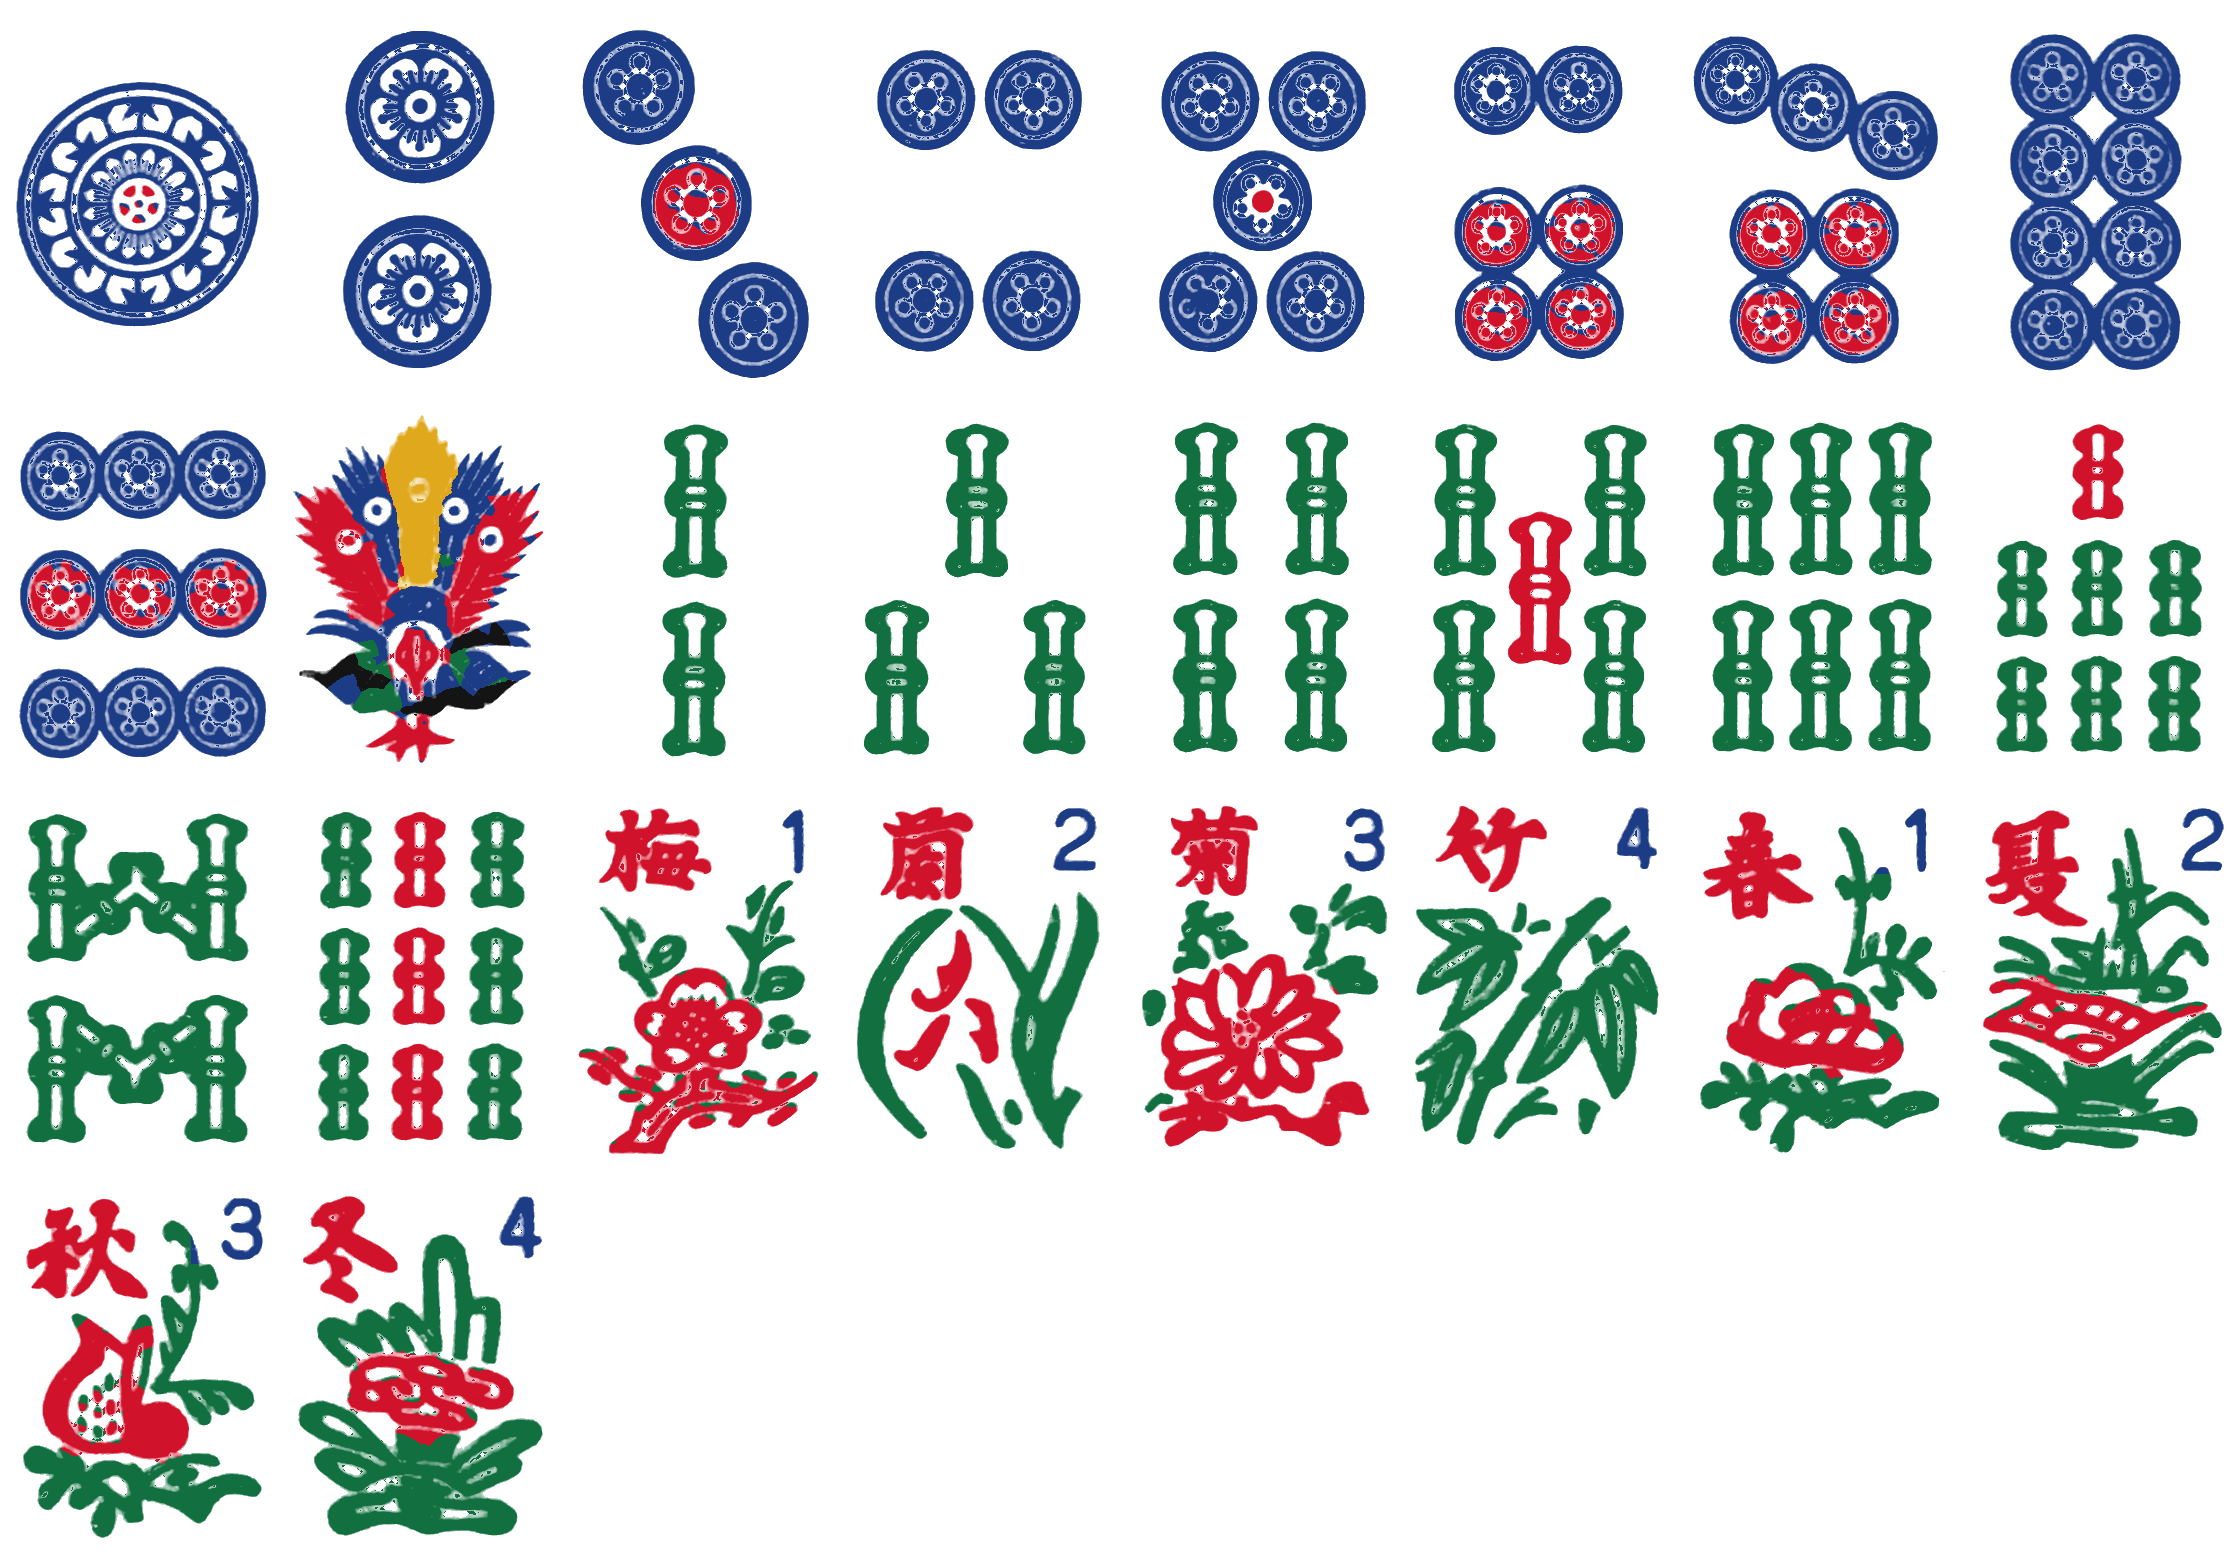
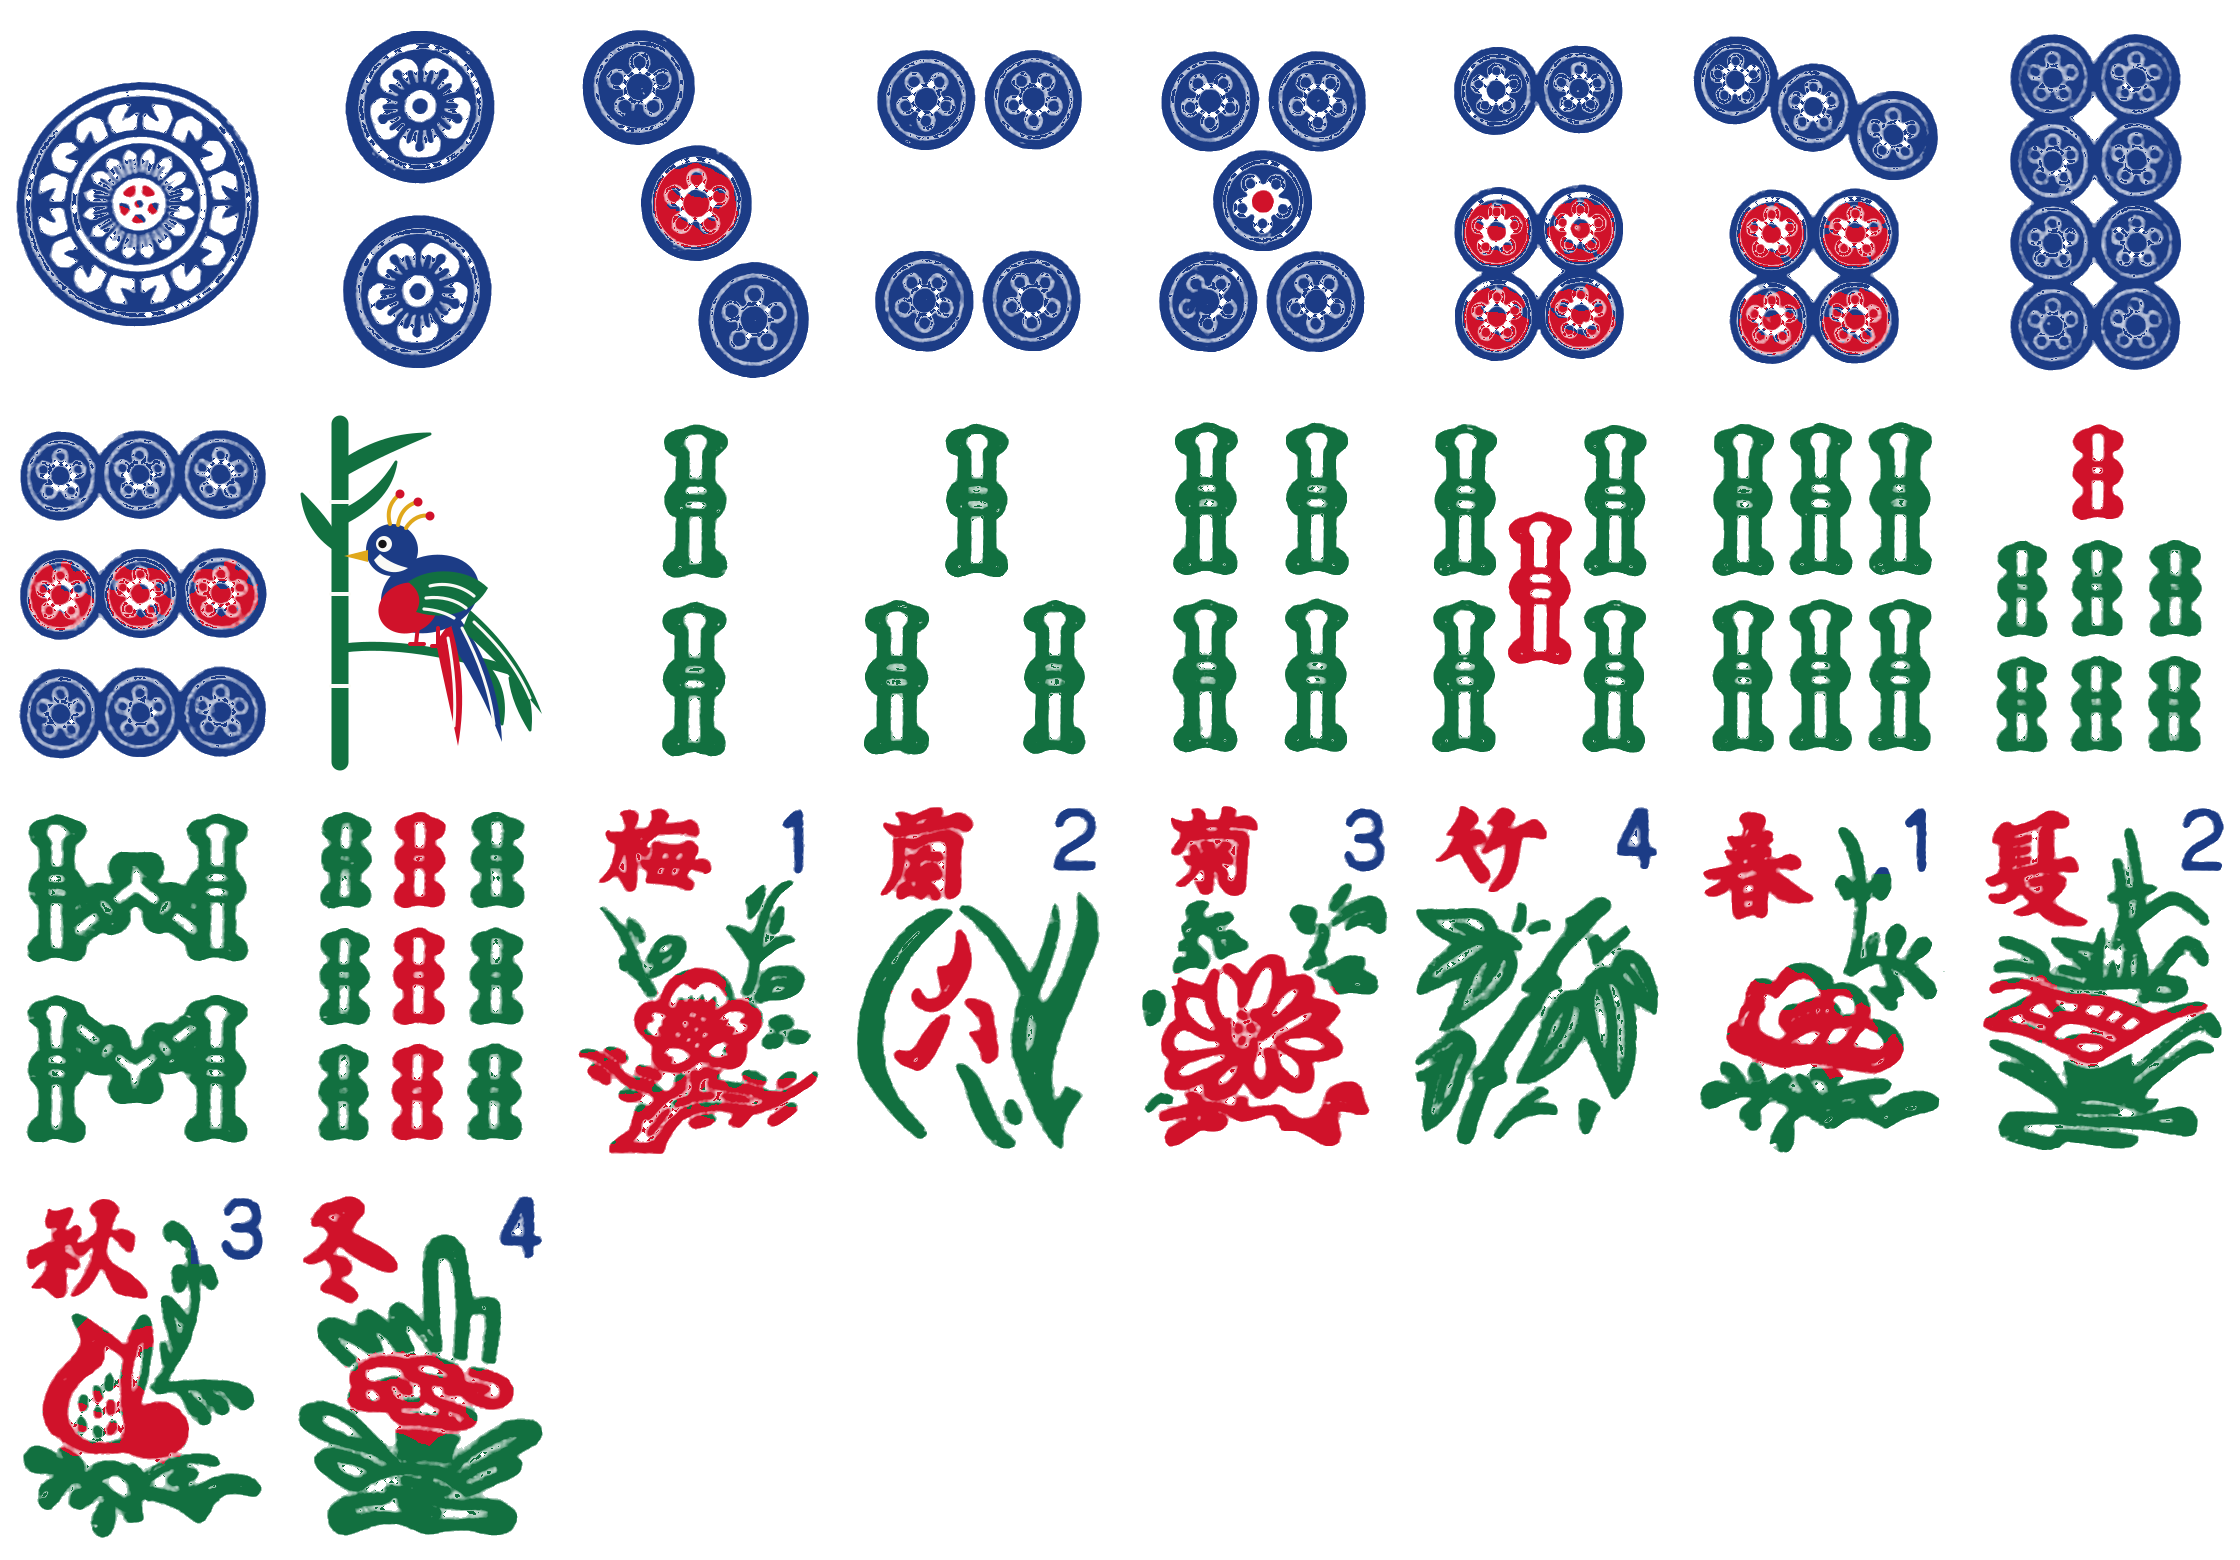
上海・麻雀：一索を独自の図案（竹にとまる雀）に (#2113)
Claude-Session: https://claude.ai/code/session_01EiWRAVZja6zGai8iStWuh2

Changed region(s): [[0.125, 0.2769, 0.25, 0.4923]]

diff --git a/atlas/lazy.js b/atlas/lazy.js
@@ -5,7 +5,7 @@
      AtlasLazy.has3D(id) / hasPlay(id) / hasRules(id) — known before loading; AtlasLazy.loaded(id) */
 (function () {
 'use strict';
-const G = {"reversi": ["games/reversi.js?v=53", "rules/reversi.js?v=14"], "shogi": ["models/shogi.js?v=101", "games/shogi-play.js?v=42", "games/shogi.js?v=16", "rules/shogi.js?v=21"], "chess": ["models/chess.js?v=16", "games/chess.js?v=18", "rules/chess.js?v=7"], "backgammon": ["models/backgammon.js?v=121", "games/backgammon.js?v=23", "rules/backgammon.js?v=11"], "gomoku": ["models/goban.js?v=15", "games/gomoku.js?v=15", "rules/gomoku.js?v=9"], "go": ["models/goban.js?v=15", "games/go.js?v=9", "rules/go.js?v=7"], "hex": ["models/goban.js?v=15", "models/hex.js?v=2", "games/hex.js?v=6", "rules/hex.js?v=6"], "tafl": ["games/tafl.js?v=15", "rules/tafl.js?v=7"], "xiangqi": ["models/xiangqi.js?v=4", "games/xiangqi.js?v=14", "rules/xiangqi.js?v=6"], "janggi": ["models/xiangqi.js?v=4", "models/janggi.js?v=3", "games/janggi.js?v=6", "rules/janggi.js?v=2"], "checkers": ["models/checkers.js?v=17", "games/checkers.js?v=8", "rules/checkers.js?v=4"], "ugolki": ["models/checkers.js?v=17", "models/ugolki.js?v=4", "games/ugolki.js?v=11", "rules/ugolki.js?v=8"], "morris": ["models/morris.js?v=7", "games/morris-pieces.js?v=2", "games/morris.js?v=7", "rules/morris.js?v=5"], "connect4": ["models/connect4.js?v=5", "games/connect4-tiles.js?v=1", "games/connect4.js?v=5", "rules/connect4.js?v=3"], "mancala": ["models/mancala.js?v=5", "games/mancala.js?v=10", "rules/mancala.js?v=4"], "dots": ["models/dots.js?v=4", "games/dots.js?v=9", "rules/dots.js?v=3"], "ur": ["models/ur-dice.js?v=2", "models/ur.js?v=5", "games/ur-kit.js?v=15", "games/ur.js?v=11", "rules/ur.js?v=16"], "fanorona": ["models/fanorona.js?v=4", "games/fanorona.js?v=6", "rules/fanorona.js?v=8"], "konane": ["models/konane.js?v=7", "games/konane.js?v=13", "rules/konane.js?v=5"], "amazons": ["models/amazons.js?v=7", "games/amazons.js?v=10", "rules/amazons.js?v=5"], "senet": ["models/ur-dice.js?v=2", "models/senet.js?v=10", "games/senet-kit.js?v=5", "games/senet.js?v=16", "rules/senet.js?v=8"], "agon": ["models/agon.js?v=4", "games/agon.js?v=12", "rules/agon.js?v=5"], "alquerque": ["models/alquerque.js?v=3", "rules/alquerque.js?v=6"], "ludo": ["../ludo/engine.js?v=3", "../ludo/house.js?v=7", "../ludo/board2d.js?v=7", "../ludo/board-art.js?v=3", "models/ludo.js?v=10", "games/ludo.js?v=28", "rules/ludo.js?v=3"], "carrom": ["../carrom/engine.js?v=7", "models/carrom.js?v=18", "games/carrom.js?v=38", "rules/carrom.js?v=8"], "crokinole": ["../carrom/engine.js?v=7", "games/carrom.js?v=38", "../crokinole/engine.js?v=4", "models/crokinole.js?v=13", "games/crokinole.js?v=15", "rules/crokinole.js?v=4"], "hockey": ["../hockey/engine.js?v=15", "models/hockey.js?v=8", "games/hockey.js?v=30", "rules/hockey.js?v=7"], "shanghai": ["games/shanghai-core.js?v=1", "games/shanghai-i18n.js?v=1", "models/shanghai.js?v=7", "games/shanghai.js?v=2"], "peg": ["../peg/engine.js?v=1", "../peg/i18n.js?v=7", "models/peg.js?v=21", "games/peg.js?v=4", "rules/peg.js?v=4"]};
+const G = {"reversi": ["games/reversi.js?v=53", "rules/reversi.js?v=14"], "shogi": ["models/shogi.js?v=101", "games/shogi-play.js?v=42", "games/shogi.js?v=16", "rules/shogi.js?v=21"], "chess": ["models/chess.js?v=16", "games/chess.js?v=18", "rules/chess.js?v=7"], "backgammon": ["models/backgammon.js?v=121", "games/backgammon.js?v=23", "rules/backgammon.js?v=11"], "gomoku": ["models/goban.js?v=15", "games/gomoku.js?v=15", "rules/gomoku.js?v=9"], "go": ["models/goban.js?v=15", "games/go.js?v=9", "rules/go.js?v=7"], "hex": ["models/goban.js?v=15", "models/hex.js?v=2", "games/hex.js?v=6", "rules/hex.js?v=6"], "tafl": ["games/tafl.js?v=15", "rules/tafl.js?v=7"], "xiangqi": ["models/xiangqi.js?v=4", "games/xiangqi.js?v=14", "rules/xiangqi.js?v=6"], "janggi": ["models/xiangqi.js?v=4", "models/janggi.js?v=3", "games/janggi.js?v=6", "rules/janggi.js?v=2"], "checkers": ["models/checkers.js?v=17", "games/checkers.js?v=8", "rules/checkers.js?v=4"], "ugolki": ["models/checkers.js?v=17", "models/ugolki.js?v=4", "games/ugolki.js?v=11", "rules/ugolki.js?v=8"], "morris": ["models/morris.js?v=7", "games/morris-pieces.js?v=2", "games/morris.js?v=7", "rules/morris.js?v=5"], "connect4": ["models/connect4.js?v=5", "games/connect4-tiles.js?v=1", "games/connect4.js?v=5", "rules/connect4.js?v=3"], "mancala": ["models/mancala.js?v=5", "games/mancala.js?v=10", "rules/mancala.js?v=4"], "dots": ["models/dots.js?v=4", "games/dots.js?v=9", "rules/dots.js?v=3"], "ur": ["models/ur-dice.js?v=2", "models/ur.js?v=5", "games/ur-kit.js?v=15", "games/ur.js?v=11", "rules/ur.js?v=16"], "fanorona": ["models/fanorona.js?v=4", "games/fanorona.js?v=6", "rules/fanorona.js?v=8"], "konane": ["models/konane.js?v=7", "games/konane.js?v=13", "rules/konane.js?v=5"], "amazons": ["models/amazons.js?v=7", "games/amazons.js?v=10", "rules/amazons.js?v=5"], "senet": ["models/ur-dice.js?v=2", "models/senet.js?v=10", "games/senet-kit.js?v=5", "games/senet.js?v=16", "rules/senet.js?v=8"], "agon": ["models/agon.js?v=4", "games/agon.js?v=12", "rules/agon.js?v=5"], "alquerque": ["models/alquerque.js?v=3", "rules/alquerque.js?v=6"], "ludo": ["../ludo/engine.js?v=3", "../ludo/house.js?v=7", "../ludo/board2d.js?v=7", "../ludo/board-art.js?v=3", "models/ludo.js?v=10", "games/ludo.js?v=28", "rules/ludo.js?v=3"], "carrom": ["../carrom/engine.js?v=7", "models/carrom.js?v=18", "games/carrom.js?v=38", "rules/carrom.js?v=8"], "crokinole": ["../carrom/engine.js?v=7", "games/carrom.js?v=38", "../crokinole/engine.js?v=4", "models/crokinole.js?v=13", "games/crokinole.js?v=15", "rules/crokinole.js?v=4"], "hockey": ["../hockey/engine.js?v=15", "models/hockey.js?v=8", "games/hockey.js?v=30", "rules/hockey.js?v=7"], "shanghai": ["games/shanghai-core.js?v=1", "games/shanghai-i18n.js?v=1", "models/shanghai.js?v=8", "games/shanghai.js?v=2"], "peg": ["../peg/engine.js?v=1", "../peg/i18n.js?v=7", "models/peg.js?v=21", "games/peg.js?v=4", "rules/peg.js?v=4"]};
 const F = {"reversi": {"t3": true, "play": true, "rules": true}, "shogi": {"t3": true, "play": true, "rules": true}, "chess": {"t3": true, "play": true, "rules": true}, "backgammon": {"t3": true, "play": true, "rules": true}, "gomoku": {"t3": true, "play": true, "rules": true}, "go": {"t3": true, "play": true, "rules": true}, "hex": {"t3": true, "play": true, "rules": true}, "tafl": {"t3": true, "play": true, "rules": true}, "xiangqi": {"t3": true, "play": true, "rules": true}, "janggi": {"t3": true, "play": true, "rules": true}, "checkers": {"t3": true, "play": true, "rules": true}, "ugolki": {"t3": true, "play": true, "rules": true}, "morris": {"t3": true, "play": true, "rules": true}, "connect4": {"t3": true, "play": true, "rules": true}, "mancala": {"t3": true, "play": true, "rules": true}, "dots": {"t3": true, "play": true, "rules": true}, "ur": {"t3": true, "play": true, "rules": true}, "fanorona": {"t3": true, "play": true, "rules": true}, "konane": {"t3": true, "play": true, "rules": true}, "amazons": {"t3": true, "play": true, "rules": true}, "senet": {"t3": true, "play": true, "rules": true}, "agon": {"t3": true, "play": true, "rules": true}, "alquerque": {"t3": true, "play": false, "rules": true}, "ludo": {"t3": true, "play": true, "rules": true}, "carrom": {"t3": true, "play": true, "rules": true}, "crokinole": {"t3": true, "play": true, "rules": true}, "hockey": {"t3": true, "play": true, "rules": true}, "peg": {"t3": true, "play": true, "rules": true}, "shanghai": {"t3": true, "play": true, "rules": false}};
 const done = new Set(), loading = new Map(), ok = new Set();
 function load(src) {

diff --git a/atlas/models/shanghai.js b/atlas/models/shanghai.js
@@ -93,7 +93,7 @@
   }
   // 筒子・索子・花／季節: the pictures traced in colour from the same photos (atlas/tools/shanghai-glyphs.py art →
   // atlas/img/shanghai-art.png, 8×4 RGBA cells: 0–8 筒子, 9–17 索子 (9 = 一索の鳥), 18–21 梅蘭菊竹, 22–25 春夏秋冬), 2026-11-14
-  const ART_URL = new URL('../img/shanghai-art.png?v=2', (document.currentScript && document.currentScript.src) || location.href).href;
+  const ART_URL = new URL('../img/shanghai-art.png?v=3', (document.currentScript && document.currentScript.src) || location.href).href;
   let artImg = null;
   const artCell = f => f >= 9 && f < 27 ? f - 9 : f >= 34 && f < 42 ? 18 + (f - 34) : -1;
   function art(c, f) { const k = artCell(f); if (!artImg || k < 0) return false; c.drawImage(artImg, (k % 8) * GW, Math.floor(k / 8) * GH, GW, GH, 0, 0, 256, 362); return true; }

diff --git a/mahjong/tiles.js b/mahjong/tiles.js
@@ -111,7 +111,7 @@ const GW = 280, GH = 390, SHEET = new URL('../atlas/img/', (document.currentScri
 let gImg = null, aImg = null, readyP = null;
 function ready() {
   const one = (u, set) => new Promise(res => { const im = new Image(); im.onload = () => { set(im); res(); }; im.onerror = () => res(); im.src = SHEET + u; setTimeout(res, 5000); });
-  return readyP || (readyP = Promise.all([one('shanghai-glyphs.png?v=1', im => { gImg = im; }), one('shanghai-art.png?v=2', im => { aImg = im; })]));
+  return readyP || (readyP = Promise.all([one('shanghai-glyphs.png?v=1', im => { gImg = im; }), one('shanghai-art.png?v=3', im => { aImg = im; })]));
 }
 const GROUND = '#fafaf6';
 // one cell of a sheet in a colour (glyph sheet: channel ch; art sheet: ch < 0 keeps its colours, or recolours all to `col`)

diff --git a/mahjong/index.html b/mahjong/index.html
@@ -110,7 +110,7 @@ else document.write('<script src="../atlas/vendor/three-r186.min.js?v=1"><\/scri
 <script src="skills.js?v=8"></script>
 <script src="game.js?v=7"></script>
 <script src="ai.js?v=6"></script>
-<script src="tiles.js?v=3"></script>
+<script src="tiles.js?v=4"></script>
 <script src="chars.js?v=3"></script>
 <script src="img/tex/baked.js?v=2"></script>
 <script src="table3d.js?v=16"></script>

diff --git a/atlas/index.html b/atlas/index.html
@@ -2260,7 +2260,7 @@ window.AtlasRgdTimer = function (btn, ms, alive) {
   }, 60);
 };</script>
 <script src="../shared/tapword.js?v=1"></script>
-<script src="lazy.js?v=205"></script>
+<script src="lazy.js?v=206"></script>
 <script src="puzzle-lines.js?v=1"></script>
 <script src="puzzles.js?v=26"></script>
 <script src="lessons3d.js?v=20"></script>

diff --git a/atlas/tools/shanghai-glyphs.py b/atlas/tools/shanghai-glyphs.py
@@ -122,6 +122,13 @@ def art(src, out):
             if k <= 8: lab[inkm & (lab != 1)] = 3
         p = paint(C(c, r), force)
         y, x = divmod(k, 8); sheet[y * GH:(y + 1) * GH, x * GW:(x + 1) * GW] = p
+    # 一索 (cell 9): our own design — a sparrow on bamboo (atlas/tools/shanghai-bird.svg, rendered with rsvg-convert), not the
+    # photo's peacock (ユーザー 2026-11-14：写真そのままの孔雀なので独自の解釈を)
+    import os, subprocess, io
+    svg = os.path.join(os.path.dirname(os.path.abspath(__file__)), 'shanghai-bird.svg')
+    png = subprocess.run(['rsvg-convert', '-w', str(GW), '-h', str(GH), svg], capture_output=True, check=True).stdout
+    b = np.array(Image.open(io.BytesIO(png)).convert('RGBA')).astype(float); b[:, :, 3] /= 255
+    sheet[GH:2 * GH, GW:2 * GW] = b
     s = sheet.copy(); s[:, :, 3] *= 255
     Image.fromarray(s.astype('uint8'), 'RGBA').save(out, optimize=True)
 

diff --git a/claude/shanghai-spec.md b/claude/shanghai-spec.md
@@ -37,3 +37,4 @@
 
 ## まだのこと
 - 3Dルールコース（キャラ進行）、ヒストリア、背の色・マットの選択UI、スマホで大きな配置を拡大・移動して遊ぶ操作。
+- 一索（2026-11-14）：写真の孔雀そのままではなく独自の図案「竹にとまる雀」（麻雀の雀にちなむ、`atlas/tools/shanghai-bird.svg`、牌の塗り5色の平塗り）。shanghai-glyphs.py art がセル9に描き込む。麻雀（mahjong/）も共通。
